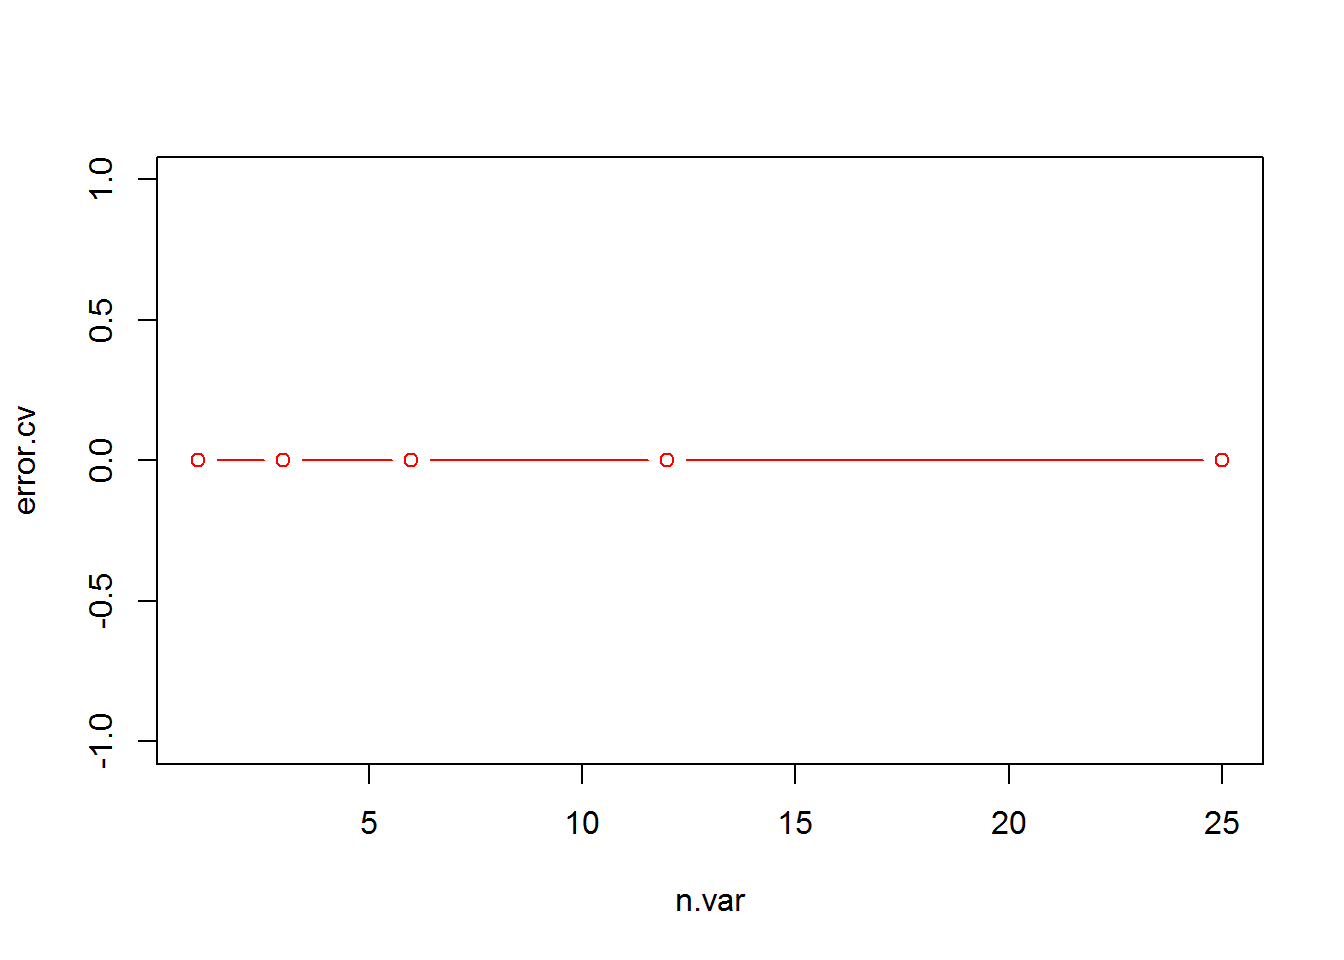
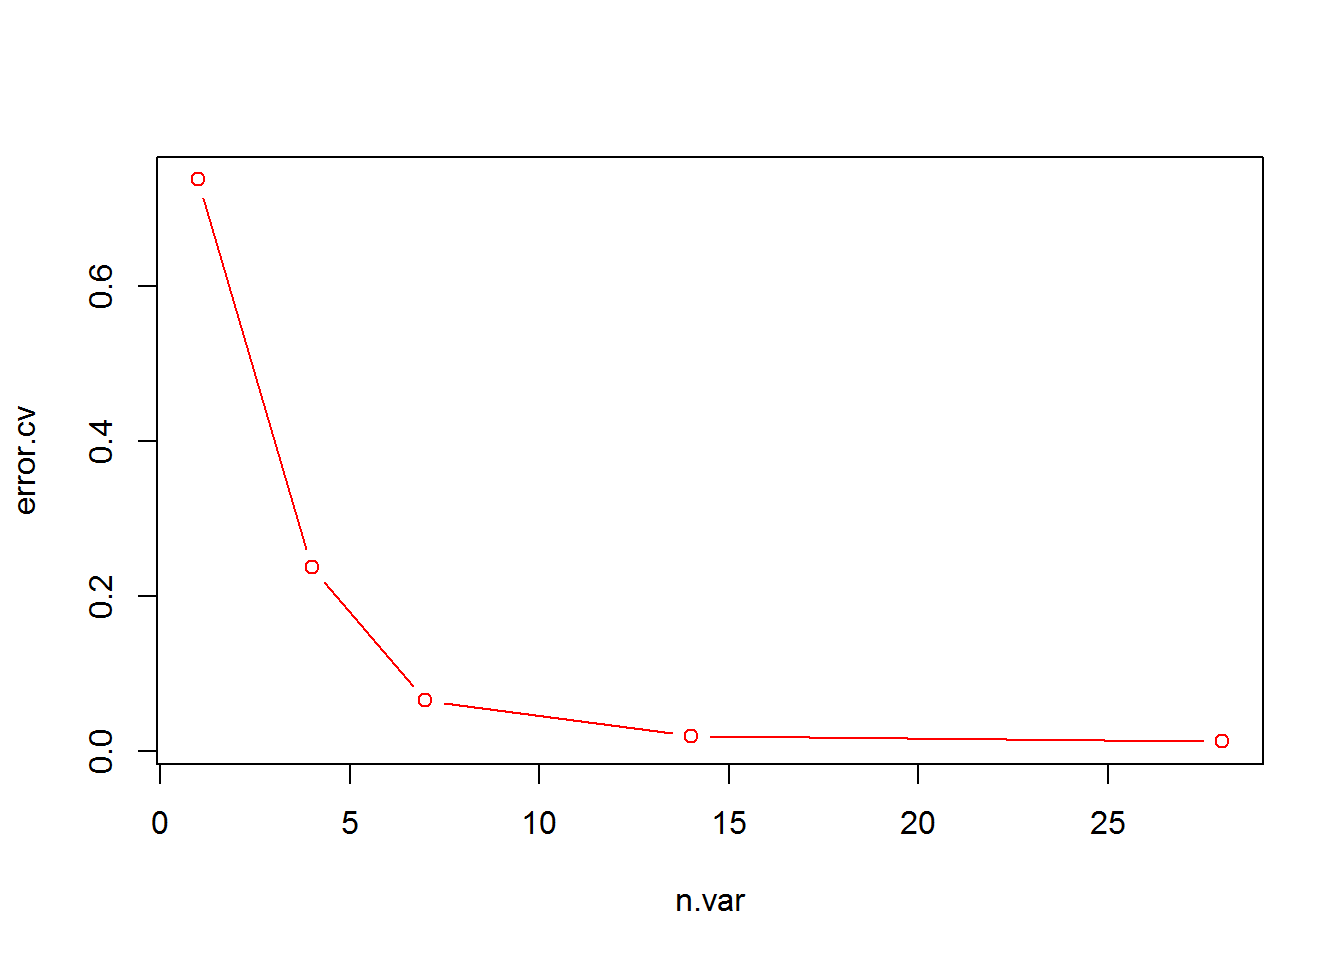
Cross Validation Revised
The plot of cross Validation  for random forest is corrected

diff --git a/projectML2015.html b/projectML2015.html
@@ -97,7 +97,9 @@ img {
 <pre class="r"><code>training&lt;-read.csv(&quot;pml-training.csv&quot;, header=TRUE, sep=&quot;,&quot;, dec=&quot;.&quot;)
 testing&lt;-read.csv(&quot;pml-testing.csv&quot;, header=TRUE, sep=&quot;,&quot;, dec=&quot;.&quot;)</code></pre>
 <p>training has <strong>160</strong> variables of <strong>19622</strong> rows. Data partition is created.</p>
-<pre class="r"><code>inTrain&lt;- createDataPartition(y= training$classe, p=0.6, list=FALSE)
+<pre class="r"><code>training&lt;-subset(training,select=-c(cvtd_timestamp))
+
+inTrain&lt;- createDataPartition(y= training$classe, p=0.6, list=FALSE)
 
 training_sample&lt;-training[inTrain,]
 testing_sample&lt;-training[-inTrain,]</code></pre>
@@ -110,6 +112,7 @@ testing_sample&lt;-training[-inTrain,]</code></pre>
 
 
 training2&lt;-subset(training_sample,select=-c(classe))
+
 
 ## nonzeroVar is the problematic vector with unique value 
 
@@ -132,7 +135,7 @@ train.pca&lt;-predict(preproc, training_numeric) ## PCA variables are created
 
 ##correlated variables is deleted because they aren´t needed anymore. Instead of them, PCA variables will be used
 classe&lt;-training_sample$classe
-df_training&lt;-cbind(training3[,-c(columnsnumeric)],train.pca,classe) ##variables correlated are deleted</code></pre>
+df_training&lt;-cbind(user_name=training3[,-c(columnsnumeric)],train.pca) ##variables correlated are deleted</code></pre>
 <p>PCA analysis is executed and <strong>27</strong> PCA variables reemplaces<br /><strong>56</strong> variables correlated of the training data. PCA is applied only to numeric variables.The same proccess is done for testing data</p>
 <ol start="4" style="list-style-type: decimal">
 <li>Cross Validation and Analysis of training data on Random Forest Model</li>
@@ -141,10 +144,10 @@ df_training&lt;-cbind(training3[,-c(columnsnumeric)],train.pca,classe) ##variabl
 <pre class="r"><code>library(randomForest)
 
 
-rf.cv &lt;- rfcv(df_training[,-c(classe)], df_training$classe, cv.fold=10)
+rf.cv &lt;- rfcv(df_training, classe, cv.fold=10)
 with(rf.cv, plot(n.var, error.cv, type=&quot;b&quot;, col=&quot;red&quot;))</code></pre>
[1 lines of base64/hex data omitted]
-<p>The Cross validation is plotted and found that the mean of error.cv is <strong>0</strong> with any number of variables. This is an excelent result and supports to Random Forest as chosen model.</p>
[1 lines of base64/hex data omitted]
+<p>The Cross validation is plotted and found that the mean of error.cv trend to 0 with more than 12 variables. This is an excelent orientation to choose Random Forest as chosen model (with the all PCA variables).</p>
 <pre class="r"><code>## the plot suggests to use Random Forest
 
 set.seed(12345)
@@ -152,7 +155,7 @@ modfit&lt;-randomForest(classe ~., data=df_training)
 
 
 rf.pred.training=predict(modfit,df_training,type=&quot;class&quot;)
-confussion.training&lt;-confusionMatrix(rf.pred.training, df_training$classe)
+confussion.training&lt;-confusionMatrix(rf.pred.training, classe)
 confussion.training</code></pre>
 <pre><code>## Confusion Matrix and Statistics
 ## 
@@ -195,44 +198,47 @@ testing_sample2 &lt;- testing_sample2[,-c(columnstodelete)]
 testing_numeric&lt;- testing_sample2[,c(only_numeric)]
 testing.pca&lt;-predict(preproc, testing_numeric) ## PCA variables are created
 classe&lt;-testing_sample$classe
-df_testing&lt;-cbind(testing_sample2[,-c(columnsnumeric)],testing.pca,classe)
+df_testing&lt;-cbind(user_name=testing_sample2[,-c(columnsnumeric)],testing.pca)
+## df_testing&lt;-cbind(testing_sample2[,-c(columnsnumeric)],testing.pca)
+
+
 
 set.seed(12345)
 rf.pred=predict(modfit,df_testing,type=&quot;class&quot;)
 predMatrix = with(df_testing,table(rf.pred,classe))
-confussion.testing&lt;-confusionMatrix(rf.pred, df_testing$classe)
+confussion.testing&lt;-confusionMatrix(rf.pred, classe)
 confussion.testing</code></pre>
 <pre><code>## Confusion Matrix and Statistics
 ## 
 ##           Reference
 ## Prediction    A    B    C    D    E
-##          A 2230   12    0    0    0
-##          B    2 1498   11    0    0
-##          C    0    8 1349   27    0
-##          D    0    0    8 1254   14
-##          E    0    0    0    5 1428
+##          A 2229   12    0    0    0
+##          B    3 1494   14    0    0
+##          C    0   12 1350   27    0
+##          D    0    0    4 1252   11
+##          E    0    0    0    7 1431
 ## 
 ## Overall Statistics
 ##                                           
-##                Accuracy : 0.9889          
-##                  95% CI : (0.9863, 0.9911)
+##                Accuracy : 0.9885          
+##                  95% CI : (0.9859, 0.9908)
 ##     No Information Rate : 0.2845          
 ##     P-Value [Acc &gt; NIR] : &lt; 2.2e-16       
 ##                                           
-##                   Kappa : 0.986           
+##                   Kappa : 0.9855          
 ##  Mcnemar's Test P-Value : NA              
 ## 
 ## Statistics by Class:
 ## 
 ##                      Class: A Class: B Class: C Class: D Class: E
-## Sensitivity            0.9991   0.9868   0.9861   0.9751   0.9903
-## Specificity            0.9979   0.9979   0.9946   0.9966   0.9992
-## Pos Pred Value         0.9946   0.9914   0.9747   0.9828   0.9965
-## Neg Pred Value         0.9996   0.9968   0.9971   0.9951   0.9978
+## Sensitivity            0.9987   0.9842   0.9868   0.9736   0.9924
+## Specificity            0.9979   0.9973   0.9940   0.9977   0.9989
+## Pos Pred Value         0.9946   0.9887   0.9719   0.9882   0.9951
+## Neg Pred Value         0.9995   0.9962   0.9972   0.9948   0.9983
 ## Prevalence             0.2845   0.1935   0.1744   0.1639   0.1838
-## Detection Rate         0.2842   0.1909   0.1719   0.1598   0.1820
-## Detection Prevalence   0.2858   0.1926   0.1764   0.1626   0.1826
-## Balanced Accuracy      0.9985   0.9924   0.9904   0.9859   0.9948</code></pre>
+## Detection Rate         0.2841   0.1904   0.1721   0.1596   0.1824
+## Detection Prevalence   0.2856   0.1926   0.1770   0.1615   0.1833
+## Balanced Accuracy      0.9983   0.9908   0.9904   0.9856   0.9956</code></pre>
 <p>The accuracy is of <strong>99</strong> % with testing data.</p>
 
 
